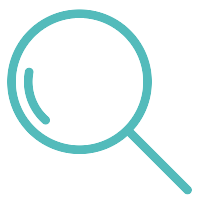
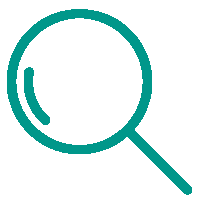
更新颜色，更加协调，加入滚动功能

Changed region(s): [[0.03, 0.03, 0.96, 0.99]]

diff --git a/微信小程序项目/app.js b/微信小程序项目/app.js
@@ -1,12 +1,15 @@
 //app.js
+var qcloud = require('./bower_components/qcloud-weapp-client-sdk/index.js');
+
 App({
+  
   onLaunch: function() {
     //调用API从本地缓存中获取数据
     var logs = wx.getStorageSync('logs') || []
     logs.unshift(Date.now())
     wx.setStorageSync('logs', logs)
   },
-
+ 
   getUserInfo: function(cb) {
     var that = this
     if (this.globalData.userInfo) {

diff --git a/微信小程序项目/pages/first/first.js b/微信小程序项目/pages/first/first.js
@@ -5,7 +5,7 @@ Page({
    * 页面的初始数据
    */
   data: {
-    text:''
+    text:'',
   },
 
   buttonli : function() 
